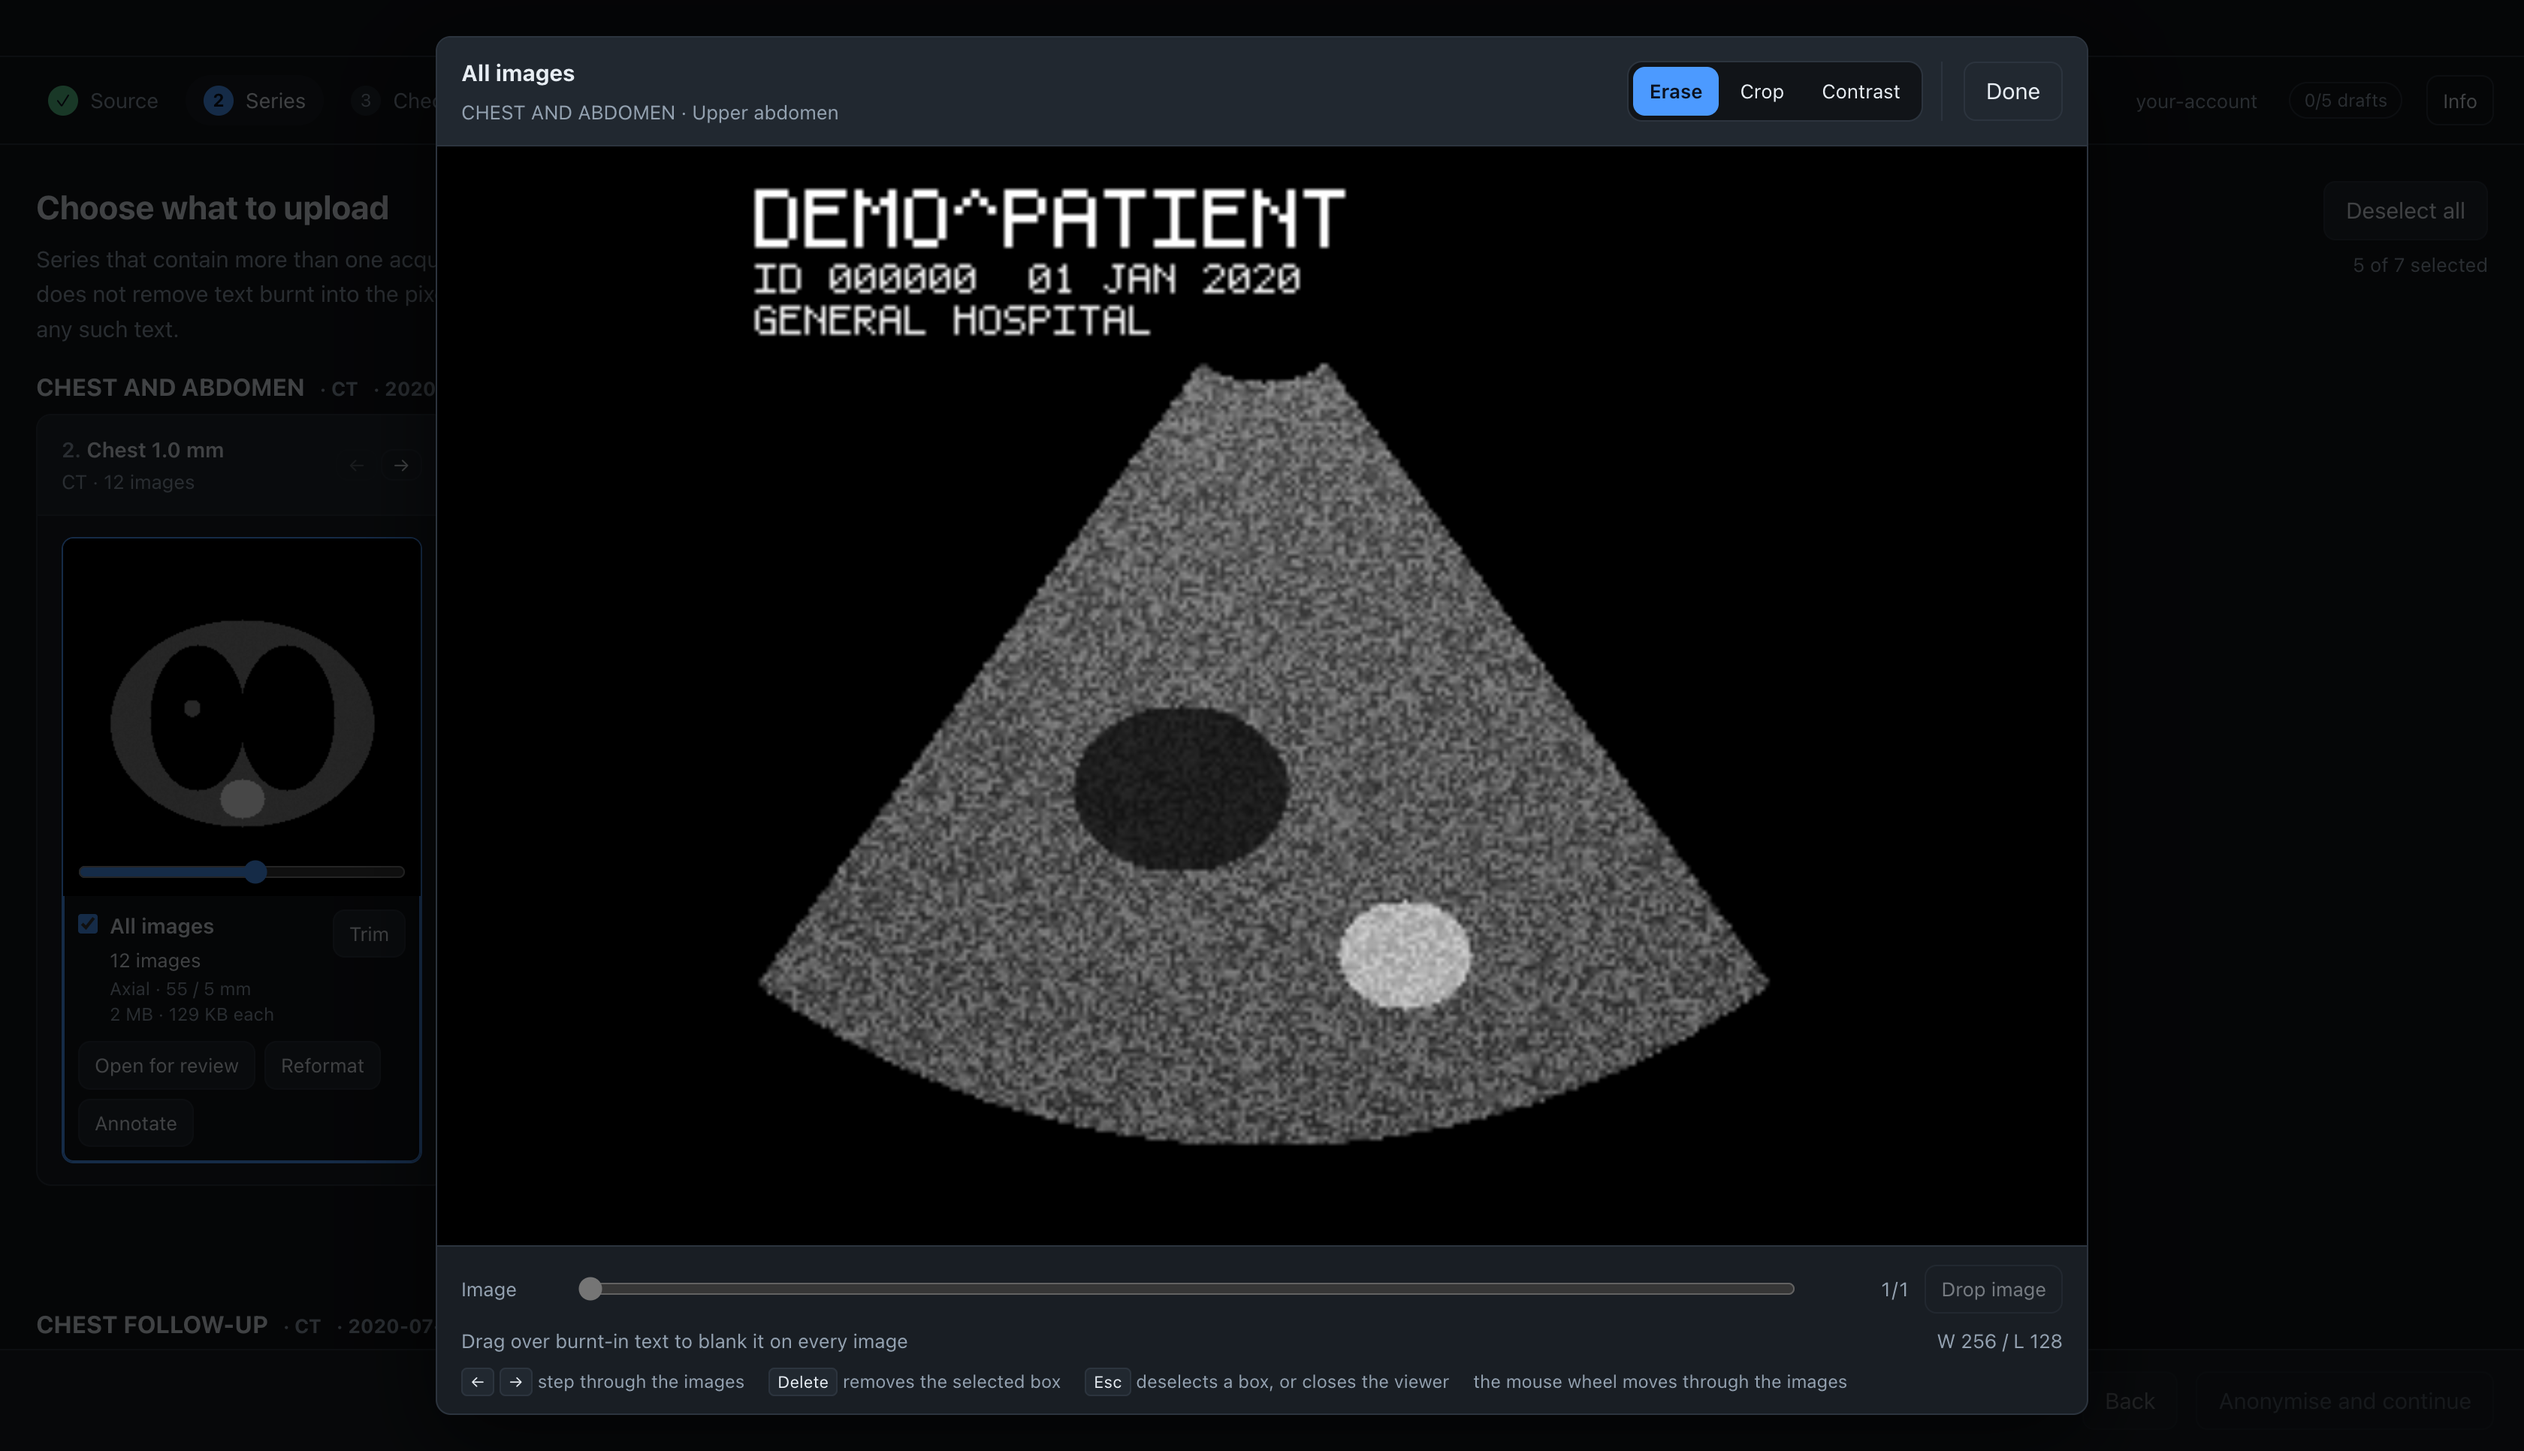
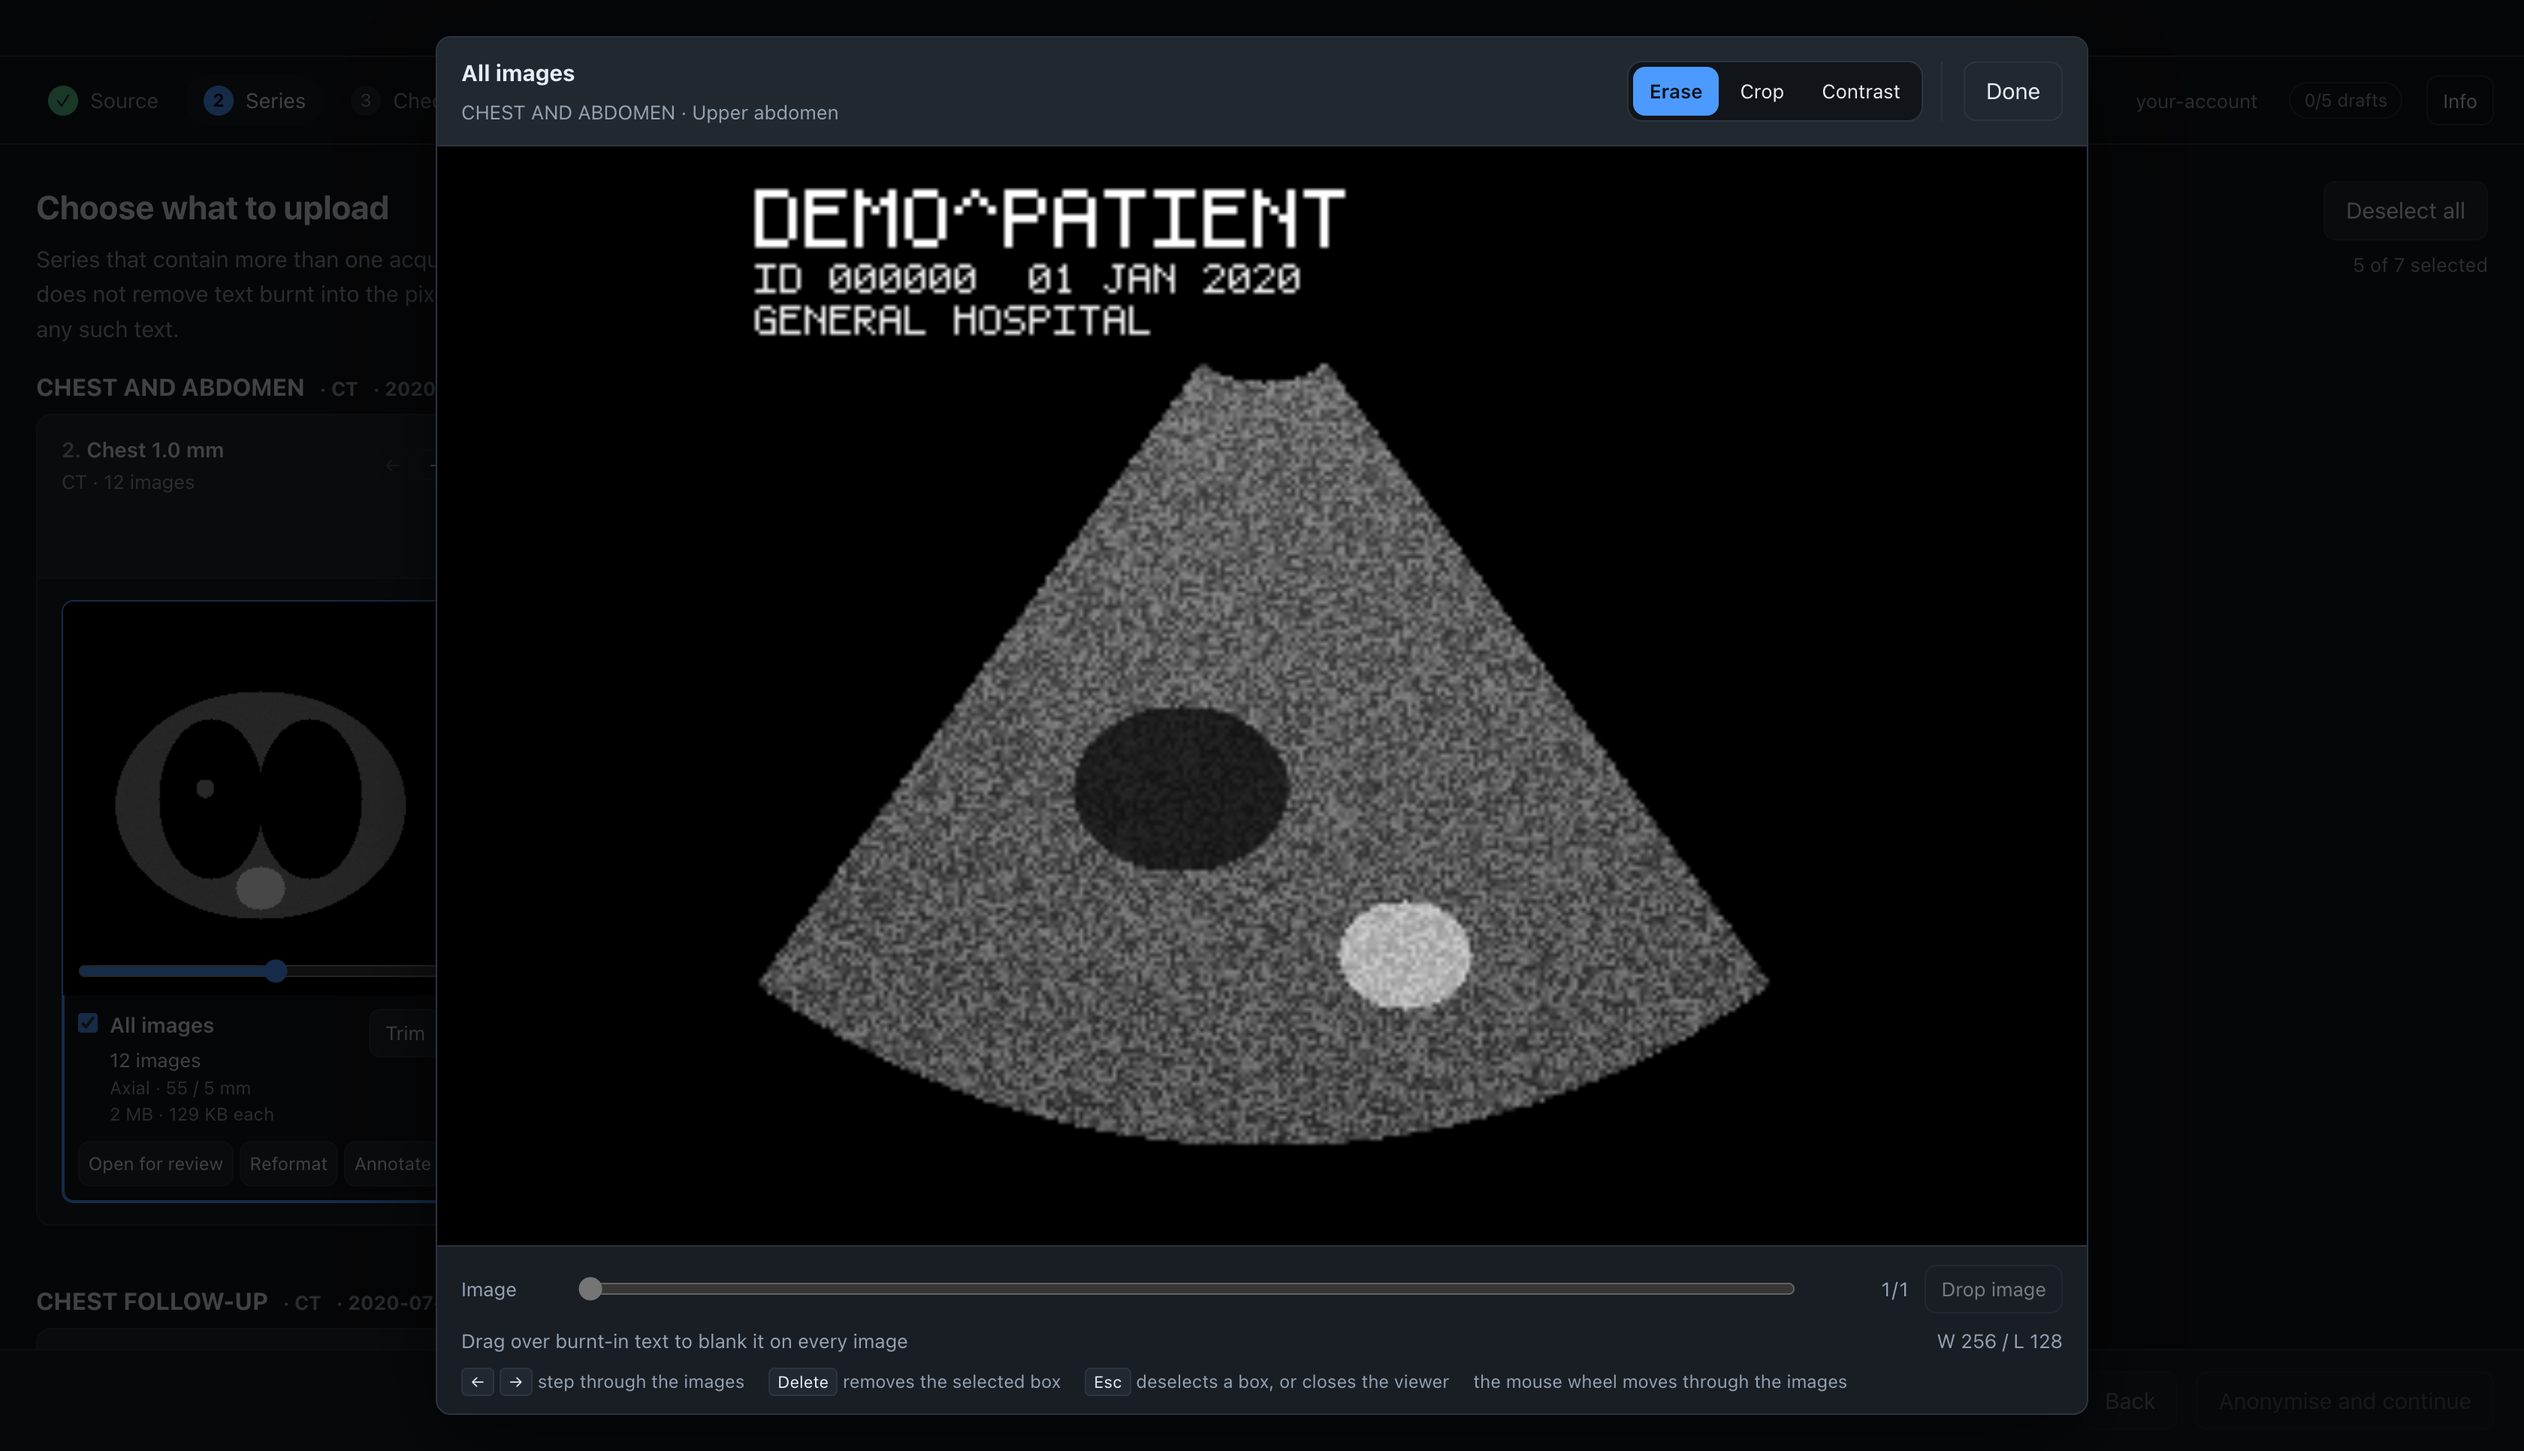
Start every series of a study at the same height and fit a card's buttons on one row
Giving a series' buttons a row of their own made its header taller than
its neighbours', so its previews started lower and a study read as a row
of images stepping up and down. The strip is now a grid whose two rows
every series shares through subgrid: the headers of one study are as tall
as the tallest, and a study where no series has buttons reserves nothing.

Open for review, Reformat and Annotate were wider than a card and left
Annotate alone on a second line. They are now the size Trim already is
and share the width, and the card is 264 pixels rather than 240, which is
what three labels on one line need. They still wrap rather than clip if a
font makes them wider.

Changed region(s): [[0.0312, 0.4037, 0.1875, 0.8075], [0.0, 0.8696, 0.1562, 0.9317]]

diff --git a/src/renderer/src/styles.css b/src/renderer/src/styles.css
@@ -176,20 +176,26 @@ h3 { font-size: 14px; margin: 0; font-weight: 600; }
 
 /* A study is a row to run along rather than a page to scroll down: the series
    stay side by side, which is where they can be compared. */
+/* A grid of two rows that every series shares, so the headers of one study are
+   all as tall as the tallest of them. A series with a row of buttons under its
+   title would otherwise start its images lower than its neighbours, and a row
+   of previews that steps up and down is hard to run an eye along. */
 .study-strip {
-  display: flex; align-items: flex-start; gap: 14px;
+  display: grid; grid-auto-flow: column; grid-auto-columns: max-content;
+  grid-template-rows: auto auto; justify-content: start; column-gap: 14px;
   overflow-x: auto; overscroll-behavior-x: contain;
   padding-bottom: 10px;
 }
 .series {
-  flex: none;
+  grid-row: span 2;
+  display: grid; grid-template-rows: subgrid;
   border: 1px solid var(--border);
   border-radius: var(--radius);
   background: var(--panel);
   overflow: hidden;
 }
 .series-head {
-  display: grid; gap: 10px;
+  display: grid; gap: 10px; align-content: start;
   padding: 12px 16px;
   background: var(--panel-2);
   border-bottom: 1px solid var(--border);
@@ -211,10 +217,10 @@ h3 { font-size: 14px; margin: 0; font-weight: 600; }
 }
 .badge.split { color: var(--warn); border-color: var(--warn); }
 
-.stacks { display: flex; gap: 12px; padding: 14px 16px; }
+.stacks { display: flex; align-items: flex-start; gap: 12px; padding: 14px 16px; }
 
 .stack {
-  width: 240px; flex: none;
+  width: 264px; flex: none;
   border: 1px solid var(--border);
   border-radius: 8px;
   overflow: hidden;
@@ -324,10 +330,11 @@ label.field { display: grid; gap: 5px; font-size: 13px; color: var(--muted); }
    invisible until the pointer was on the card, which hid them from anyone
    reading a screenshot and covered the anatomy of anyone who found them — on
    the screen whose whole instruction is to open a series and look at it. */
-/* Wrapped: three buttons are wider than a card, and the third one was cut off
-   at its edge. */
-.stack-actions { display: flex; flex-wrap: wrap; gap: 6px; padding: 0 10px 10px; }
-.stack-actions button { white-space: nowrap; }
+/* One row. Three buttons at the size of the others are wider than a card, and
+   wrapped they left Annotate alone on a line of its own; so these are a size
+   down, the size Trim already is, and share the width between them. */
+.stack-actions { display: flex; flex-wrap: wrap; gap: 4px; padding: 0 10px 10px; }
+.stack-actions button { flex: 1 1 auto; padding: 5px; font-size: 12px; white-space: nowrap; }
 
 .viewer-backdrop {
   position: fixed; inset: 0; z-index: 50;
@@ -460,7 +467,7 @@ label.field { display: grid; gap: 5px; font-size: 13px; color: var(--muted); }
 .polygon-line { fill: none; stroke-width: 1.5; vector-effect: non-scaling-stroke; }
 .polygon-start { fill: rgba(255, 255, 255, 0.25); stroke: #fff; stroke-width: 1; vector-effect: non-scaling-stroke; }
 .annotate-aside {
-  width: 260px; flex: none; overflow-y: auto;
+  width: 264px; flex: none; overflow-y: auto;
   display: flex; flex-direction: column; gap: 8px;
   padding: 12px; border-left: 1px solid var(--border);
 }

diff --git a/src/renderer/src/components/ReviewStep.tsx b/src/renderer/src/components/ReviewStep.tsx
@@ -33,7 +33,7 @@ interface Props {
  * stretch the group past the cards and leave a single one adrift in it. The
  * heading is truncated to this instead.
  */
-const CARD_WIDTH = 240
+const CARD_WIDTH = 264
 const CARD_GAP = 12
 const ROW_PADDING = 32
 
